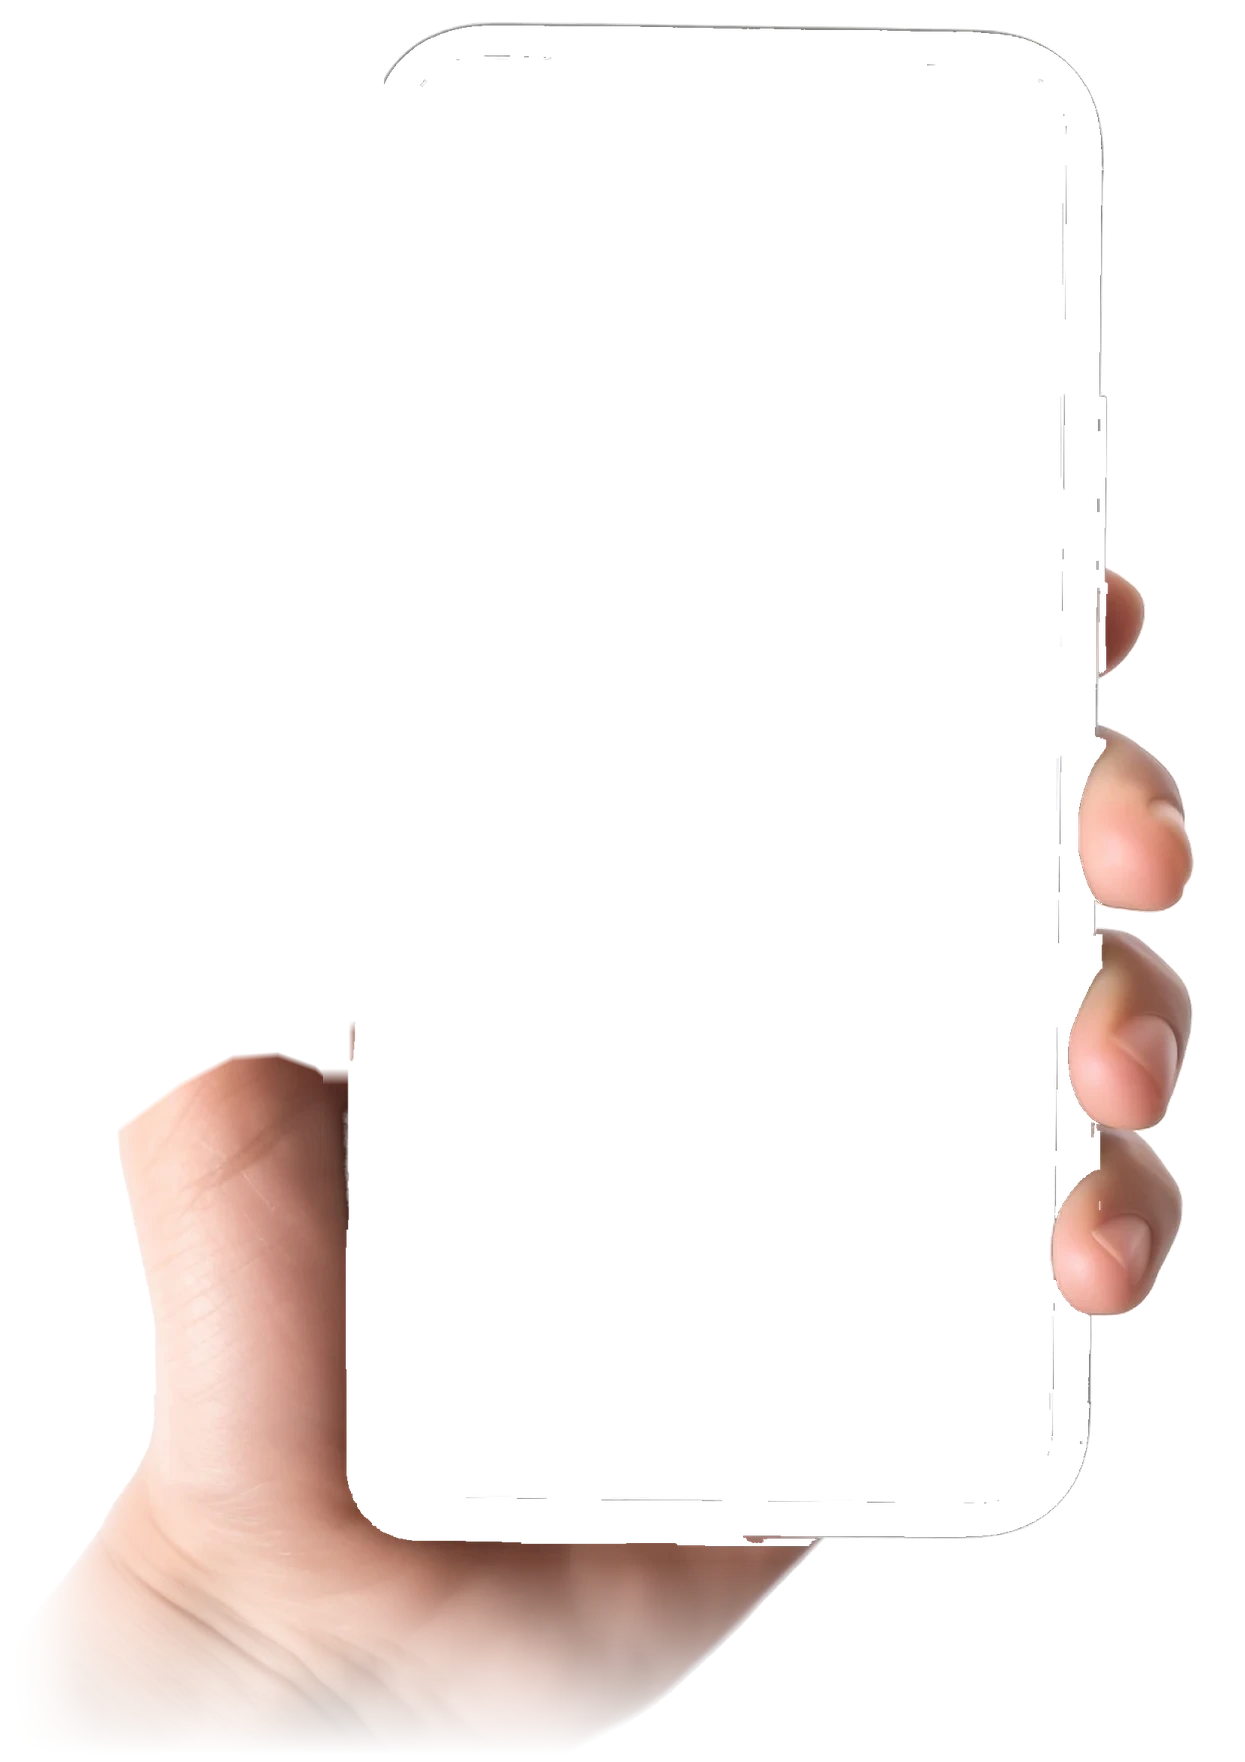
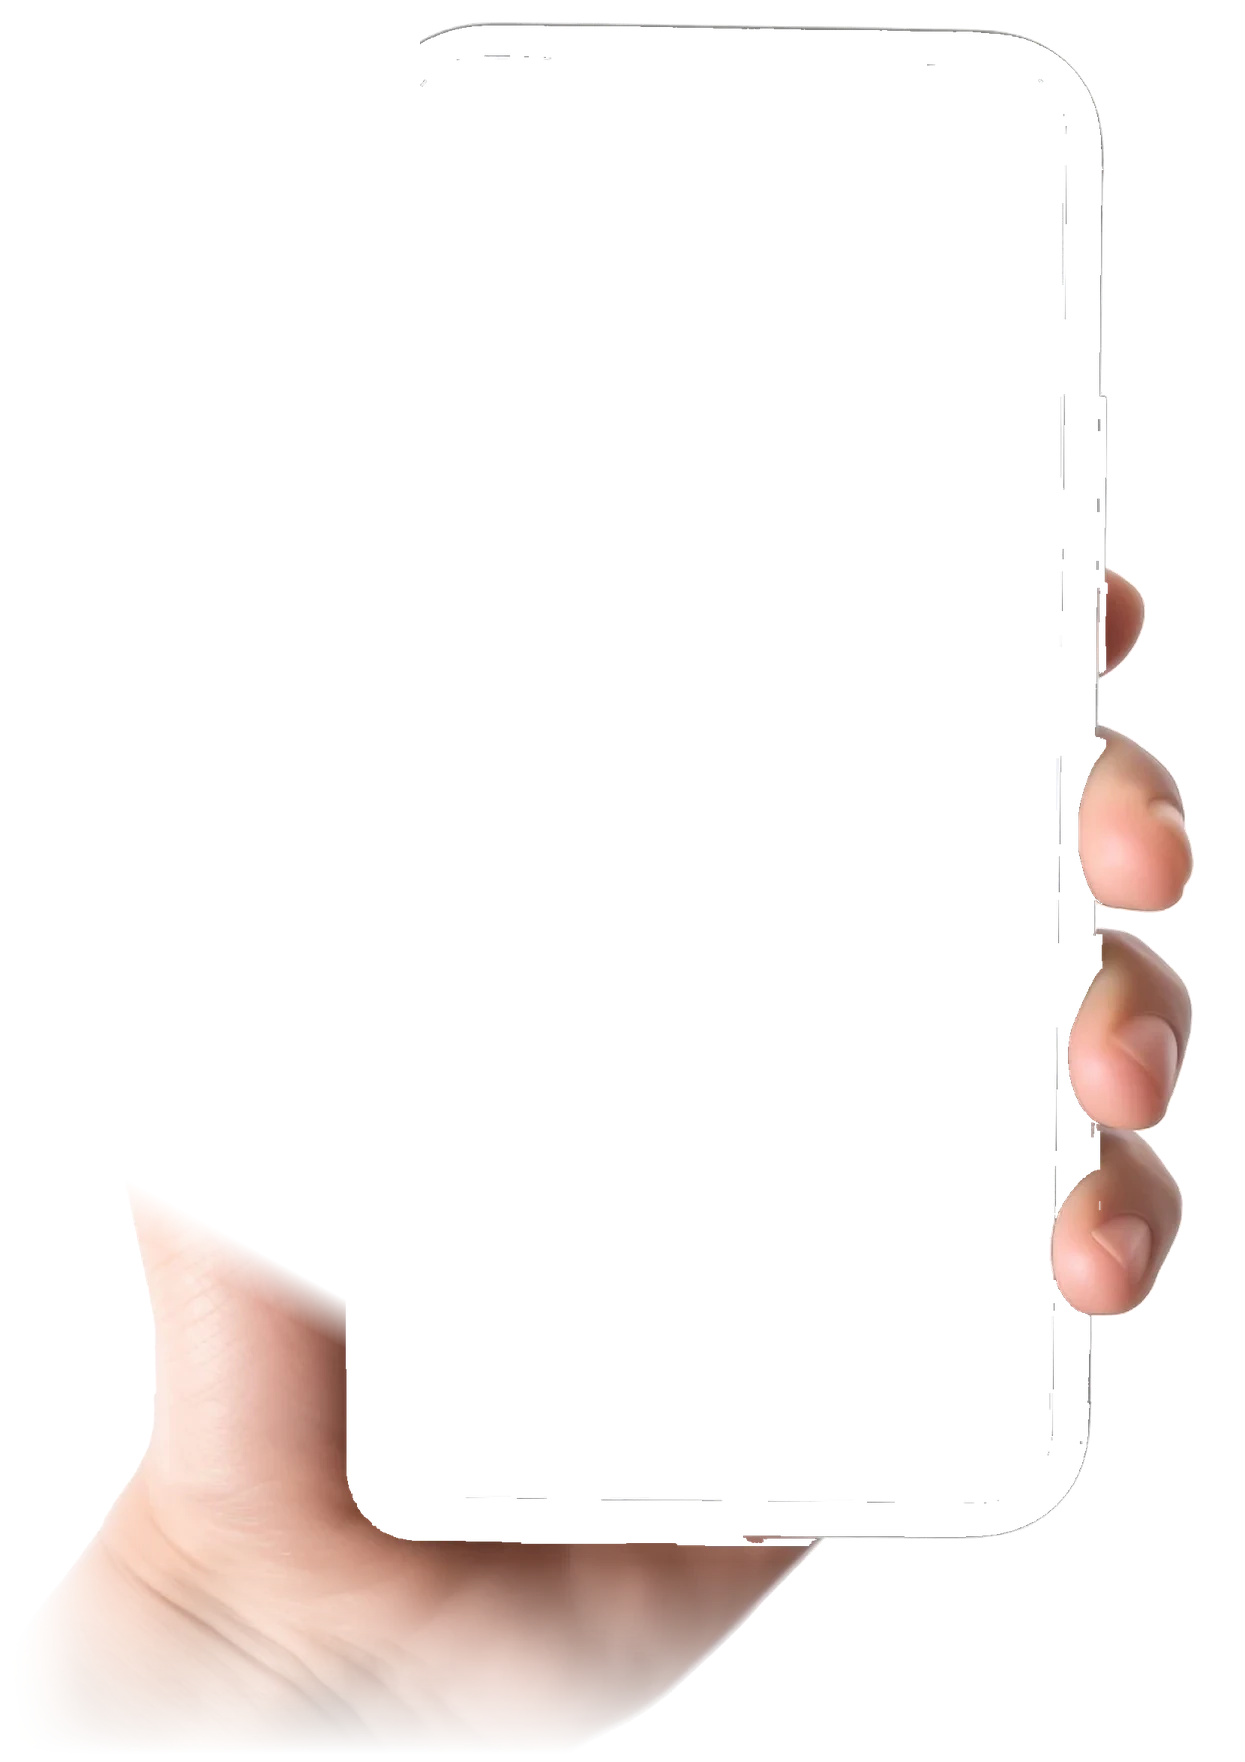
Thumb rises diagonally from the lower-left like a real one-handed grip; carries its own base, no leftover stump

Changed region(s): [[0.0916, 0.5931, 0.3052, 0.7804]]

diff --git a/hand.js b/hand.js
@@ -9,17 +9,19 @@
   // ---- Photo geometry, in pixels of the 1245x1762 layers ----
   var IMG_W = 1245, IMG_H = 1762;
   var SCREEN = { tl: [406.7, 57.0], tr: [1066.1, 68.3], br: [1049.7, 1503.0], bl: [390.0, 1495.0] };
-  var THUMB_BOX = [117, 580, 360, 1157];     // where the thumb piece sits at rest
+  var THUMB_BOX = [117, 580, 360, 1420];     // where the thumb piece sits at rest (its base runs on under the palm)
   var PIVOT = [240, 1125];                   // the root of the thumb's bone, hidden under the palm
   var PAD = [331.5, 621];                    // with the pivot, sets the thumb's axis (x runs along it)
   var TOUCH = [514, -25];                    // the middle of the tip, in the thumb's frame: what meets the glass
 
   // ---- The joints, as fractions of the thumb's length (0 at the pivot, 1 at the tip) ----
-  // The thumb swings from its root under the palm (the turn eases in across ROOT, most of it
-  // hidden by the palm). The two knuckles are hinges: narrow zones where the angle changes,
+  // The thumb swings from its root under the palm (the turn eases in across ROOT, almost all of
+  // it below the pivot, so the visible thumb stays straight instead of bowing like a banana; the
+  // thumb piece carries its own fleshy base, and the palm piece only covers the heel of the hand).
+  // The two knuckles are hinges: narrow zones where the angle changes,
   // with straight bone between them.
-  var ROOT = [-0.05, 0.35], MCP = 0.66, IP = 0.84, HINGE = 0.06;
-  var TURN_AT_ROOT = 0.75;                   // share of the turn taken at the root; the rest at the first knuckle
+  var ROOT = [-0.28, 0.02], MCP = 0.66, IP = 0.84, HINGE = 0.06;
+  var TURN_AT_ROOT = 0.92;                   // share of the turn taken at the root; the rest at the first knuckle
   // Curl (0..1) closes the reach for nearer keys: the knuckles bend a little (radians at full
   // curl) and the bones tip toward the glass, so they look shorter (never longer) from the front:
   // the metacarpal barely, the last phalanx the most, as it presses.
@@ -27,6 +29,11 @@
   // Past that much curl, the hand pulls the thumb's root back toward the palm instead (up to
   // SLIDE px, hidden under the palm), the way a real grip shifts for a near key.
   var SLIDE = 50;
+  // A real thumb never lies flat across the glass: it swings from its base low in the palm, so it
+  // always comes up at an angle from the phone's lower-left corner. For a low key the grip slides
+  // down the phone's edge (up to DROP px) so the thumb still rises at least MIN_RISE toward it,
+  // and the fleshy base sinks with it.
+  var DROP = 190, MIN_RISE = 0.5;
   // How far each side of the axis the thumb proper reaches (outer side toward the edge of the
   // hand, inner side toward the phone), by length fraction; the flesh beyond is the palm's.
   var BAND = { u: [0.2, 0.5, 0.8], outer: [-78, -74, -66], inner: [56, 50, 45] };
@@ -127,19 +134,21 @@
     var tg = onScreen(p.x, p.y);
     tg = [tg[0] - p.lift * 4, tg[1] - p.lift * 8];
     var press = 1 - p.lift, turn = 0, curl = 0, back = 0;
-    var want = Math.atan2(tg[1] - PIVOT[1], tg[0] - PIVOT[0]), dw = dist(tg, PIVOT);
+    var drop = clamp(Math.max(0, tg[0] - PIVOT[0]) * Math.tan(MIN_RISE) - (PIVOT[1] - tg[1]), 0, DROP);
+    var root = [PIVOT[0], PIVOT[1] + drop];
+    var want = Math.atan2(tg[1] - root[1], tg[0] - root[0]), dw = dist(tg, root);
     var dir = [Math.cos(want), Math.sin(want)], curlMax = CURL.max * (1 - 0.5 * p.lift);
     for (var it = 0; it < 14; it++) {
-      var slide = [-back * dir[0], -back * dir[1]];
+      var slide = [-back * dir[0], drop - back * dir[1]];
       var pos = touchAt(turn, curl, press, slide);
       turn += wrapAngle(want - Math.atan2(pos[1] - PIVOT[1] - slide[1], pos[0] - PIVOT[0] - slide[0]));
-      var over = dist(pos, PIVOT) - dw;                 // how far past the target the tip reaches
+      var over = dist(pos, root) - dw;                 // how far past the target the tip reaches
       var c2 = clamp(curl + 0.8 * over / REACH_SPAN, 0, curlMax);
       over -= (c2 - curl) * REACH_SPAN; curl = c2;
       back = clamp(back + 0.8 * over, 0, SLIDE);
     }
     var k = 1 - p.rest;
-    return { turn: turn * k, curl: curl * k, press: press * k, slide: [-back * dir[0] * k, -back * dir[1] * k], over: k, lift: p.lift, target: tg };
+    return { turn: turn * k, curl: curl * k, press: press * k, slide: [-back * dir[0] * k, (drop - back * dir[1]) * k], drop: drop * k, over: k, lift: p.lift, target: tg };
   }
 
   // ---- The warp: the whole hand deforms as one piece of skin. Marked spots along the thumb
@@ -169,7 +178,8 @@
       var a = apply(REST_S[i], h), b = apply(Ss[i], h);
       out.push([a[0], a[1], b[0], b[1]]);
     });
-    PINS.forEach(function (p) { out.push([p[0], p[1], p[0], p[1]]); });
+    // the thumb's fleshy base sinks with the grip; the heel of the hand stays put
+    PINS.forEach(function (p) { var d = (q.drop || 0) * 0.85 * smooth(p[1], 1330, 1150); out.push([p[0], p[1], p[0], p[1] + d]); });
     return out;
   }
   function mlsRigid(cp, x, y) {

diff --git a/index.html b/index.html
@@ -60,7 +60,7 @@
       <video src="video/request-flow.mp4?v=6" poster="video/request-flow.jpg?v=5" width="604" height="1312" autoplay muted playsinline preload="auto" aria-label="A short video of someone holding an iPhone and requesting an office in OfficeSwap with their thumb: they tap Request an Office, pick Tuesday and Wednesday, and get an office for both days."></video>
       <img class="hold-phone" src="images/hand/phone.webp?v=5" alt="" width="1245" height="1762">
       <img class="hold-still" src="images/hand/handhold.webp?v=14" alt="" width="1245" height="1762">
-      <canvas class="hold-hand" aria-hidden="true" data-thumb="images/hand/thumb.webp?v=7" data-palm="images/hand/palm.webp?v=6"></canvas>
+      <canvas class="hold-hand" aria-hidden="true" data-thumb="images/hand/thumb.webp?v=8" data-palm="images/hand/palm.webp?v=7"></canvas>
     </div>
     <button type="button" class="replay" hidden aria-label="Play the video again"><svg viewBox="0 0 24 24" fill="none" stroke="currentColor" stroke-width="2" stroke-linecap="round" stroke-linejoin="round" aria-hidden="true"><path d="M3.5 12a8.5 8.5 0 1 0 2.6-6.1"/><path d="M3.5 4v4.5H8"/></svg></button>
   </div>
@@ -256,7 +256,7 @@
       <video src="video/request-flow.mp4?v=6" poster="video/request-flow.jpg?v=5" width="604" height="1312" muted playsinline preload="metadata" data-play="in-view" aria-label="The same short video: someone holding an iPhone and requesting an office in OfficeSwap with their thumb: they tap Request an Office, pick Tuesday and Wednesday, and get an office for both days."></video>
       <img class="hold-phone" src="images/hand/phone.webp?v=5" alt="" width="1245" height="1762">
       <img class="hold-still" src="images/hand/handhold.webp?v=14" alt="" width="1245" height="1762">
-      <canvas class="hold-hand" aria-hidden="true" data-thumb="images/hand/thumb.webp?v=7" data-palm="images/hand/palm.webp?v=6"></canvas>
+      <canvas class="hold-hand" aria-hidden="true" data-thumb="images/hand/thumb.webp?v=8" data-palm="images/hand/palm.webp?v=7"></canvas>
     </div>
     <button type="button" class="replay" hidden aria-label="Play the video again"><svg viewBox="0 0 24 24" fill="none" stroke="currentColor" stroke-width="2" stroke-linecap="round" stroke-linejoin="round" aria-hidden="true"><path d="M3.5 12a8.5 8.5 0 1 0 2.6-6.1"/><path d="M3.5 4v4.5H8"/></svg></button>
   </div>
@@ -589,6 +589,6 @@
     document.addEventListener("click", function (e) { if (m.open && !m.contains(e.target)) m.removeAttribute("open"); });
   })();
 </script>
-<script src="hand.js?v=24" defer></script>
+<script src="hand.js?v=25" defer></script>
 </body>
 </html>
